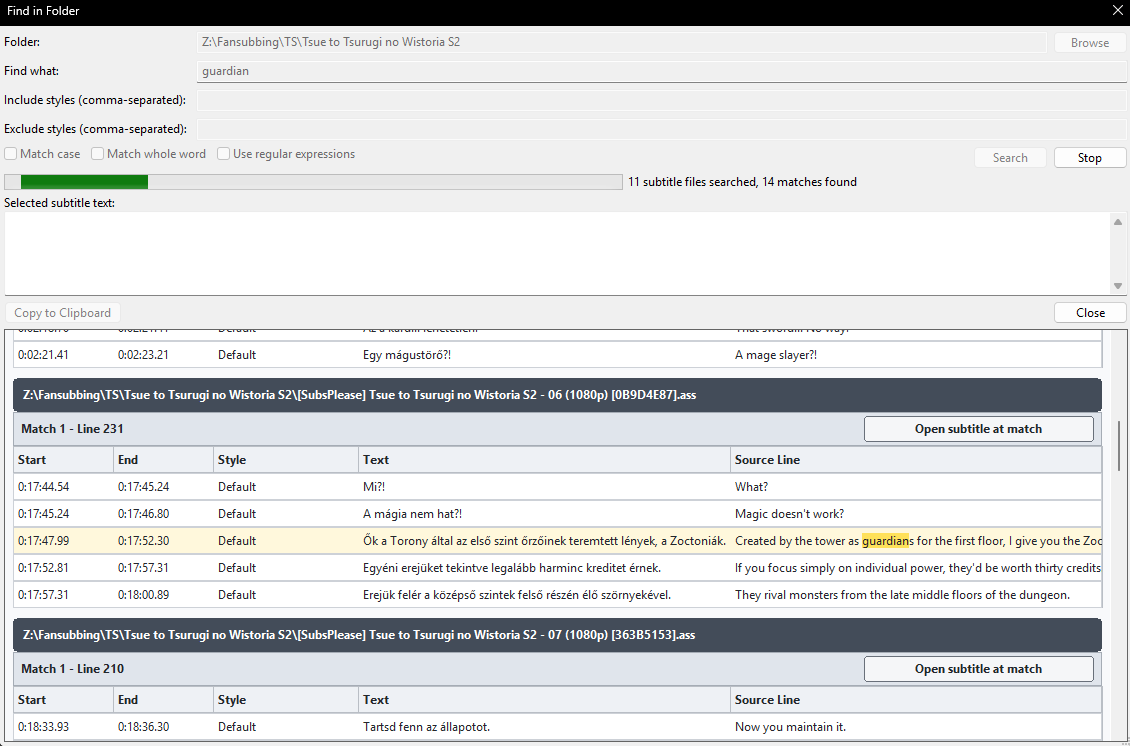
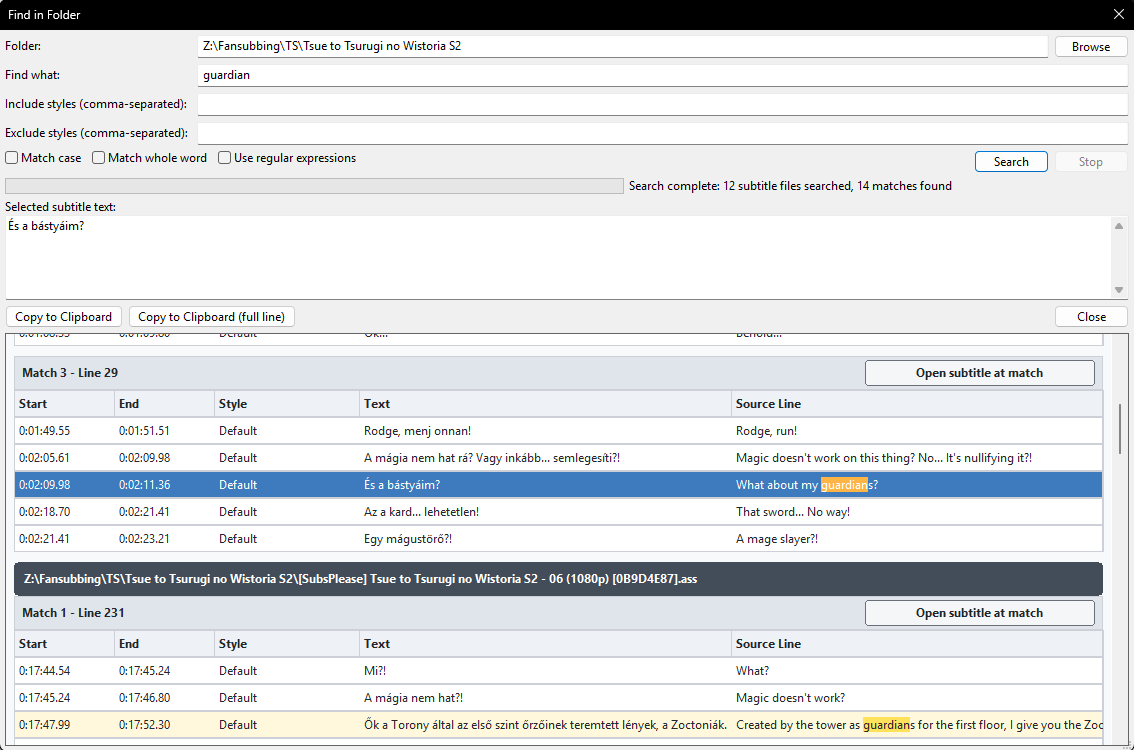
docs update

diff --git a/docs/new-features/hu/find-in-folder.md b/docs/new-features/hu/find-in-folder.md
@@ -1,34 +1,13 @@
-# Keresés egy teljes mappa felirataiban
+[Vissza](README.md)
 
-[Új funkciók](README.md) · [English](../en/find-in-folder.md)
+# Keresés mappában
 
-**Hol találod:** Szerkesztés → Keresés mappában.
+A `Szerkesztés → Keresés mappában..." menüponton érheted el, melynek segítségével rekurzívan lehet keresni egy mappa feliratfájljaiban gyorsan. A megjelenő találatok közeli 2-2 sorát is mutatja adott találatnál, amiket kiválasztva felülre betölti a tartalmat és ki lehet másolni a szöveget vagy a teljes sort is. A találathoz tartozó feliratot meg is lehet nyitni külön Aegisub ablakban, és rögtön az adott sorra is ugrik.
 
-A kereső rekurzívan átnézi egy mappa feliratfájljait, és a találat helyén akár meg is nyithatod a megfelelő fájlt az adott pozíción.
+Kereséskor lehet kis- és nagybetű megközelítéssel, teljes szöveggel és regex-szel is keresni, stílusokat hozzáadni vagy elvenni a keresésből.
 
-- Szövegben és forrássorban egyaránt. Teljes szó és reguláris kifejezés is kereshető.
-- Stílusokat bevonhatsz vagy kizárhatsz.
+> Forrássorokban is keres, így meg lehet találni azt, hogy egy bizonyos kifejezést hogyan fordítottuk korábban.
 
-- A listában a fordítás mellett az angol forrássor is megjelenik.
+![Példa](../media/find-in-folder.png)
 
-**Példa**
-
-Egy hosszú anime korábbi részeiben gyorsan megkeresheted egy név vagy visszatérő kifejezés korábbi fordítását.
-
-## Gyorsbillentyűhöz kereshető parancsok
-
-- `edit/find_in_folder`
-
-## Képek és bemutatók
-
-### Rekurzív keresés több feliratfájlban
-
-![Mappában található feliratok keresőablaka](../media/find-in-folder.png)
-
-Találatok több fájlból, közvetlen megnyitási lehetőséggel.
-
-## Kapcsolódó funkciók
-
-- [Forrássorok és MKV](source-lines.md)
-
-[Vissza a funkciójegyzékhez](README.md)
+[Vissza](README.md)

diff --git a/docs/new-features/hu/README.md b/docs/new-features/hu/README.md
@@ -13,7 +13,7 @@
 ### Munkafolyamat
 - [Forrássorok](source-lines.md): forrás mondat (pl. angol) automatikus megjegyzése
 - [AI review és utóellenőrzés](ai-review.md): jelenet fordításának ellenőrzése japánból hang alapján, utólagos helyesírási, stilisztikai, fordítási ellenőrzés
-- [Keresés feliratokban](find-in-folder.md): adott kifejezésre való kényelmes keresés több feliratban egyszerre
+- [Keresés mappában](find-in-folder.md): adott kifejezésre való kényelmes keresés több feliratban egyszerre
 - [Szövegszerkesztés](text-editing.md): szöveg módosítás és szövegrészletek megjegyzésbe rakása
 
 ### Felület
